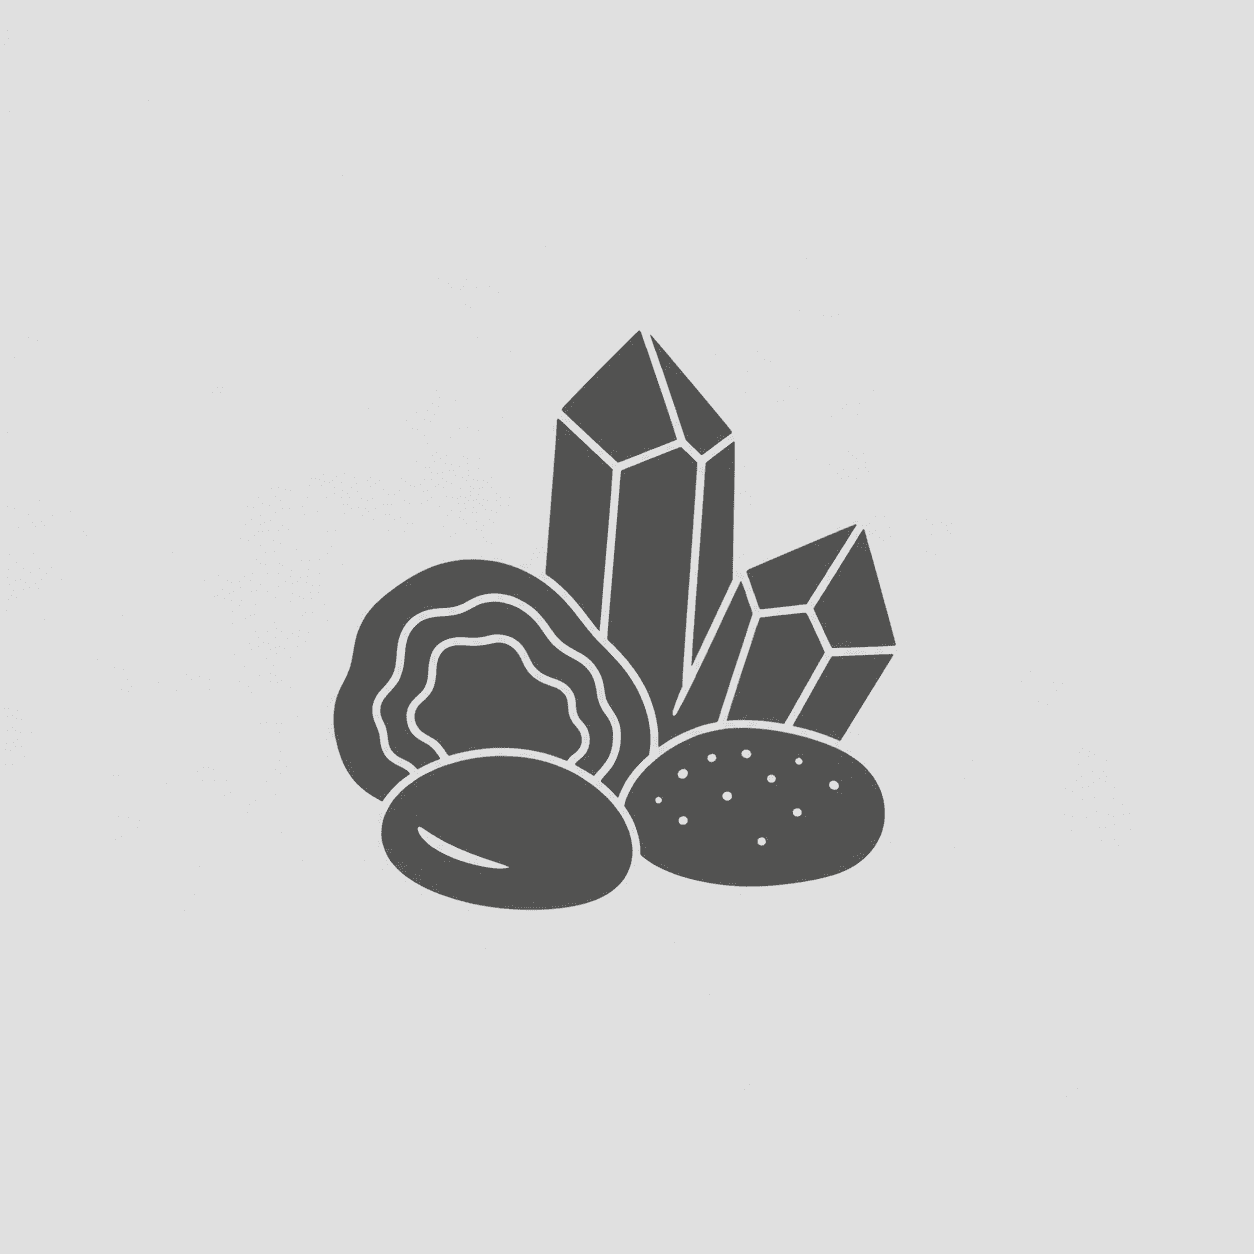
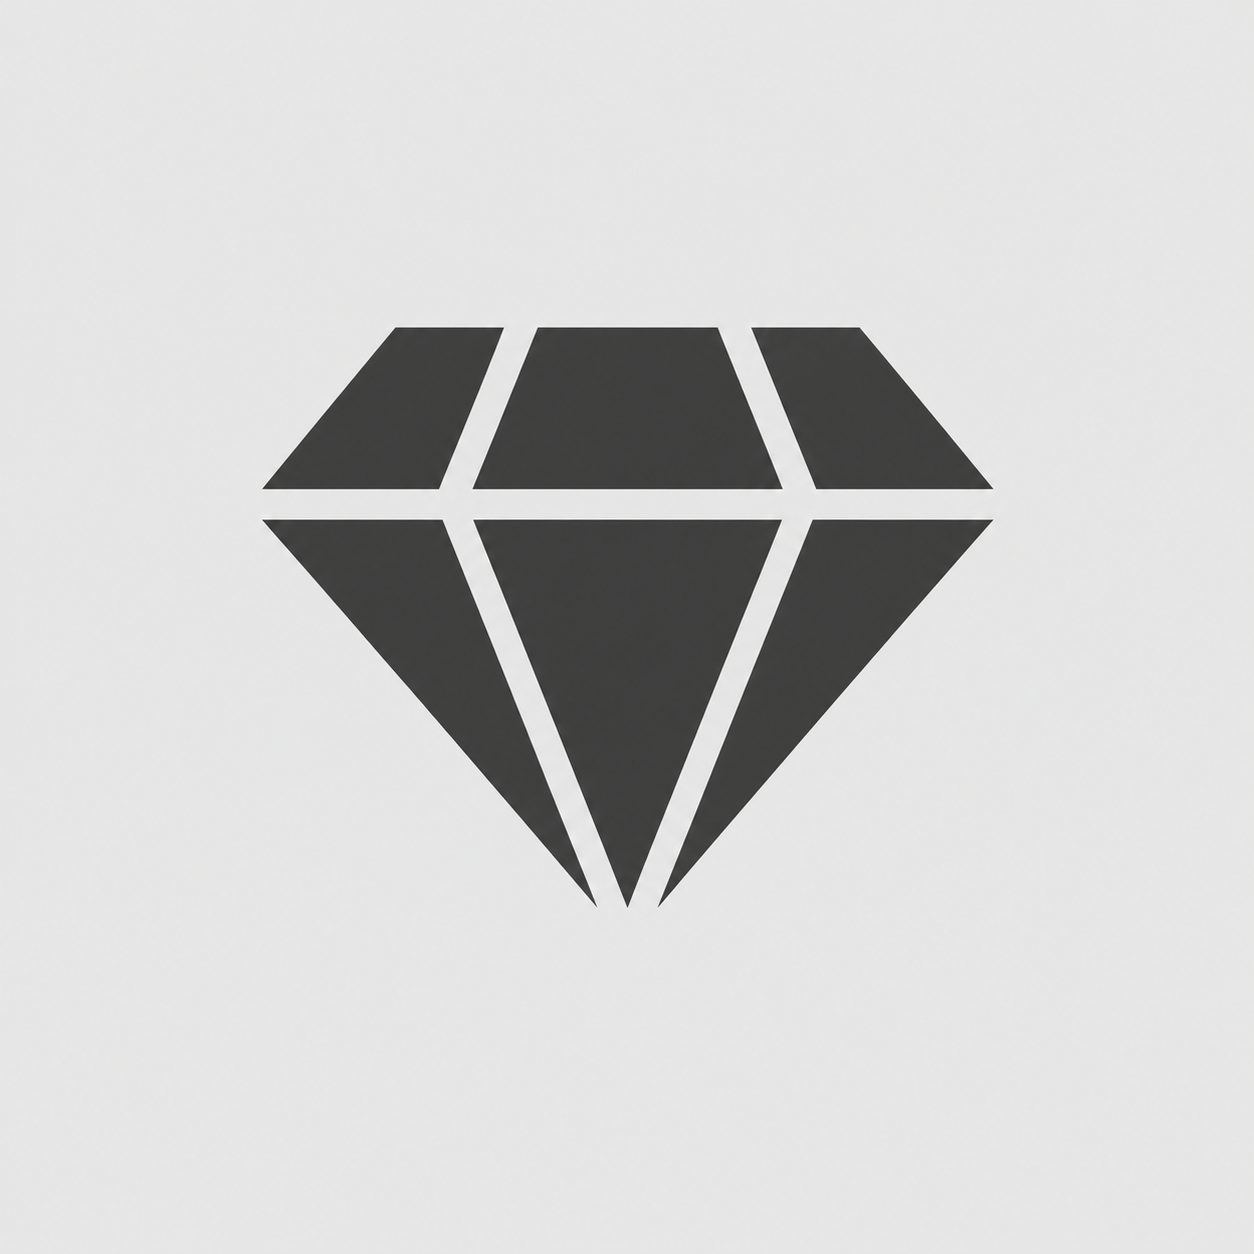
remove 'Shooting' movement type and related labels from inventory components

Changed region(s): [[0.2177, 0.2488, 0.8086, 0.7464]]

diff --git a/src/app/features/shared/inventory/inventory.utils.ts b/src/app/features/shared/inventory/inventory.utils.ts
@@ -59,7 +59,6 @@ const MOVEMENT_LABELS: Record<MovementType, string> = {
   [MovementType.Sale]: 'Venta',
   [MovementType.Return]: 'Devolución',
   [MovementType.Adjustment]: 'Ajuste',
-  [MovementType.Shooting]: 'Sesión de fotos',
   [MovementType.Loss]: 'Egreso',
 };
 
@@ -75,7 +74,6 @@ const MOVEMENT_SEVERITY: Record<
   [MovementType.Sale]: 'info',
   [MovementType.Return]: 'success',
   [MovementType.Adjustment]: 'warn',
-  [MovementType.Shooting]: 'secondary',
   [MovementType.Loss]: 'danger',
 };
 

diff --git a/src/app/features/shared/inventory/movement-form-dialog/movement-form-dialog.component.ts b/src/app/features/shared/inventory/movement-form-dialog/movement-form-dialog.component.ts
@@ -291,11 +291,6 @@ export class MovementFormDialogComponent {
       value: MovementType.Return,
       hint: 'Devolución de cliente. Suma stock.',
     },
-    {
-      label: 'Sesión de fotos',
-      value: MovementType.Shooting,
-      hint: 'Resta stock. Ingresá las unidades que salen temporalmente.',
-    },
   ];
 
   protected readonly searchTerm = signal('');

diff --git a/src/app/features/shared/inventory/components/movements-tab.component.ts b/src/app/features/shared/inventory/components/movements-tab.component.ts
@@ -393,7 +393,6 @@ export class MovementsTabComponent {
     { label: 'Venta', value: MovementType.Sale },
     { label: 'Devolución', value: MovementType.Return },
     { label: 'Ajuste manual', value: MovementType.Adjustment },
-    { label: 'Sesión de fotos', value: MovementType.Shooting },
     { label: 'Egreso / Pérdida', value: MovementType.Loss },
   ];
 

diff --git a/src/app/features/shared/inventory/inventory.types.ts b/src/app/features/shared/inventory/inventory.types.ts
@@ -83,7 +83,6 @@ export const MovementType = {
   Sale: 'Sale',
   Return: 'Return',
   Adjustment: 'Adjustment',
-  Shooting: 'Shooting',
   Loss: 'Loss',
 } as const;
 
